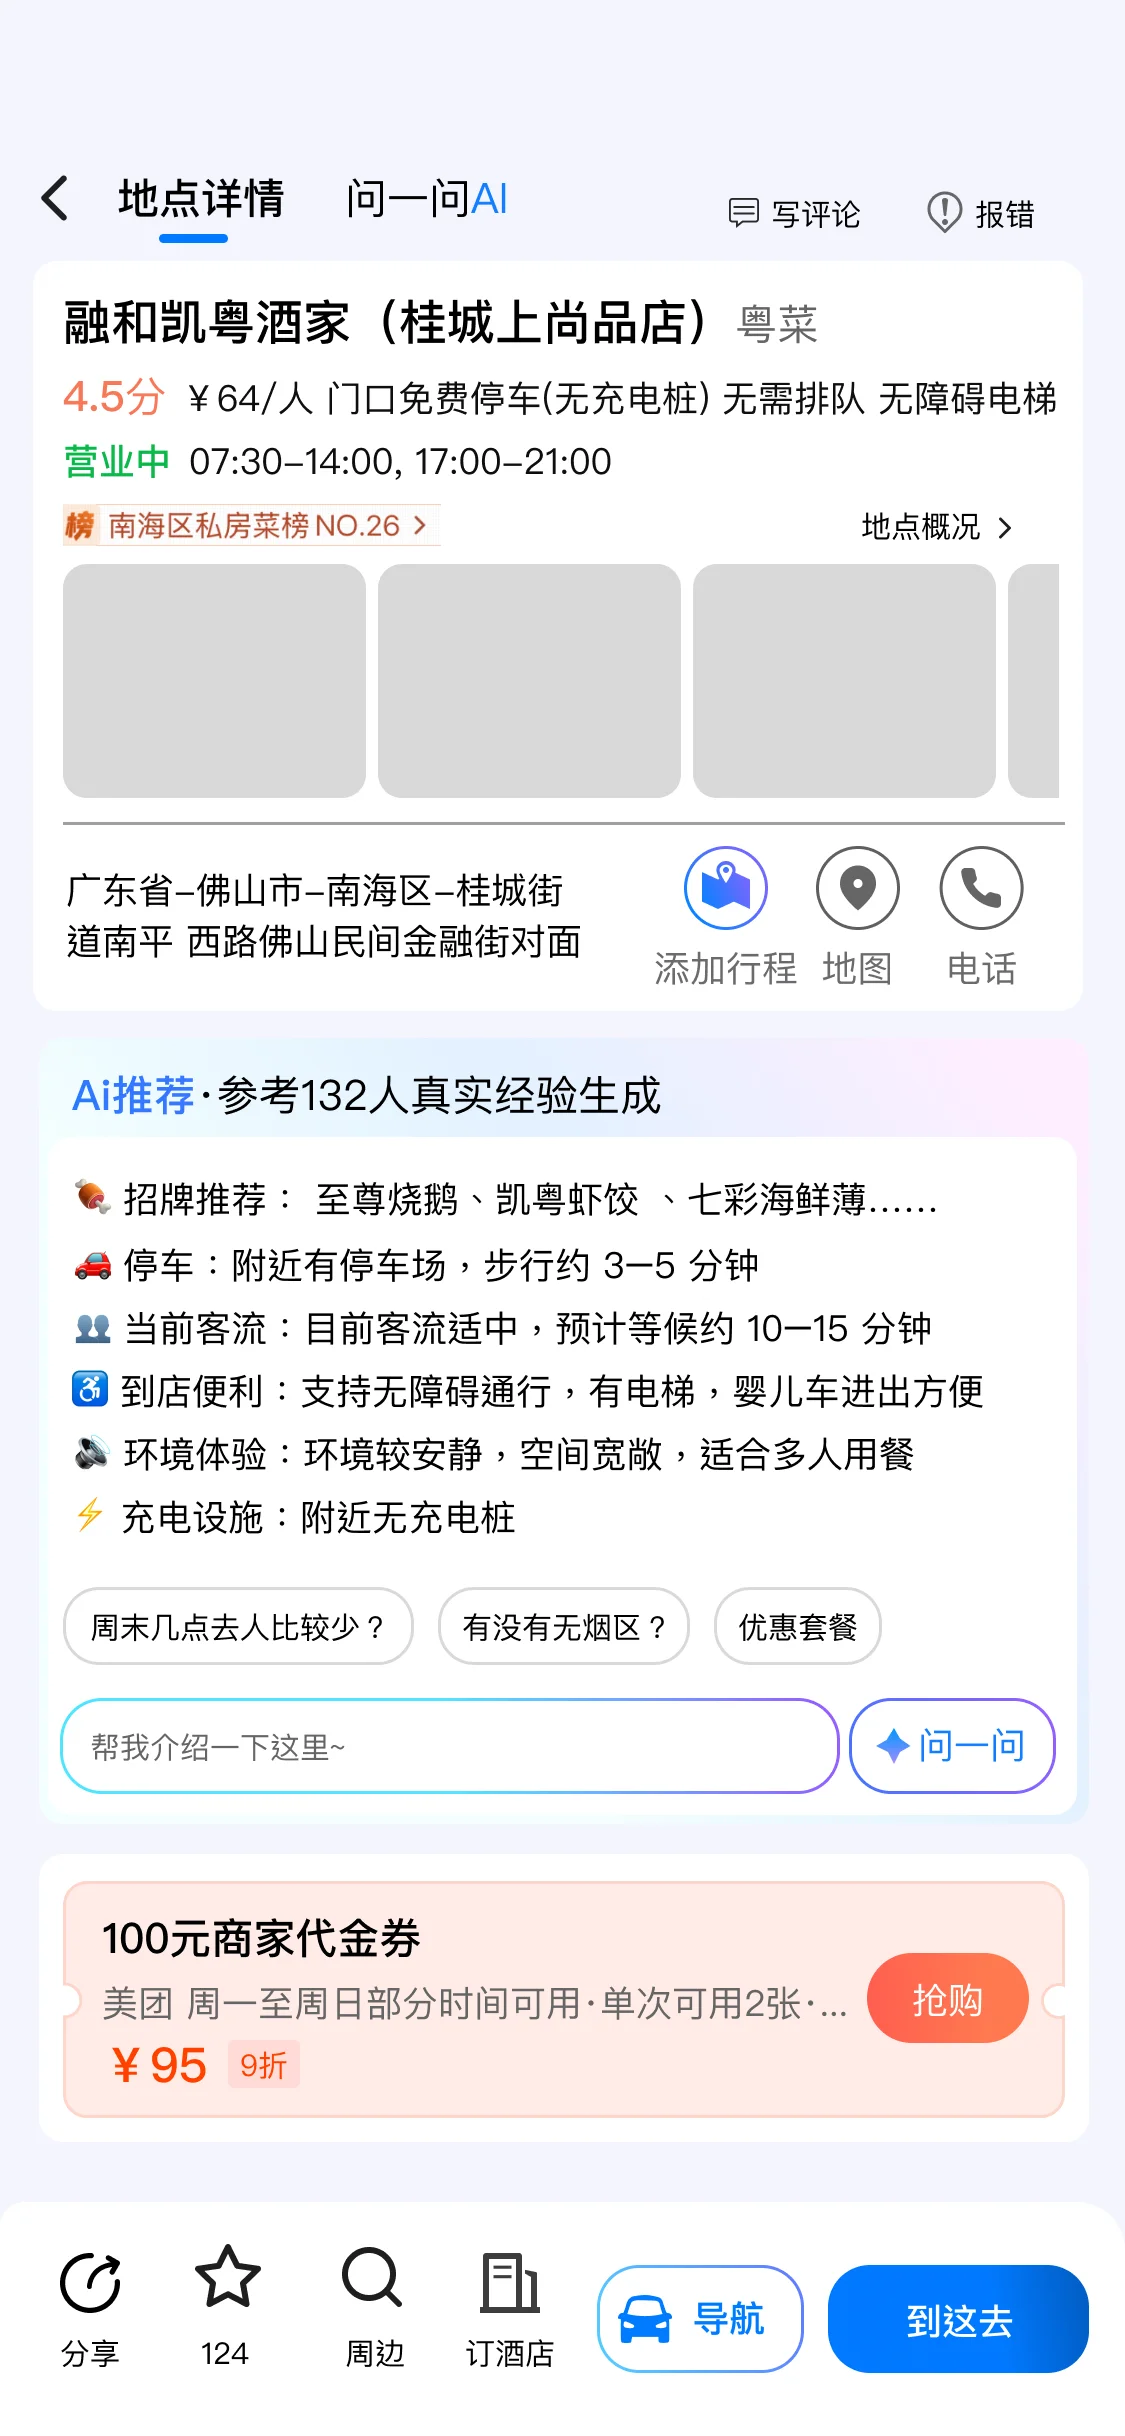
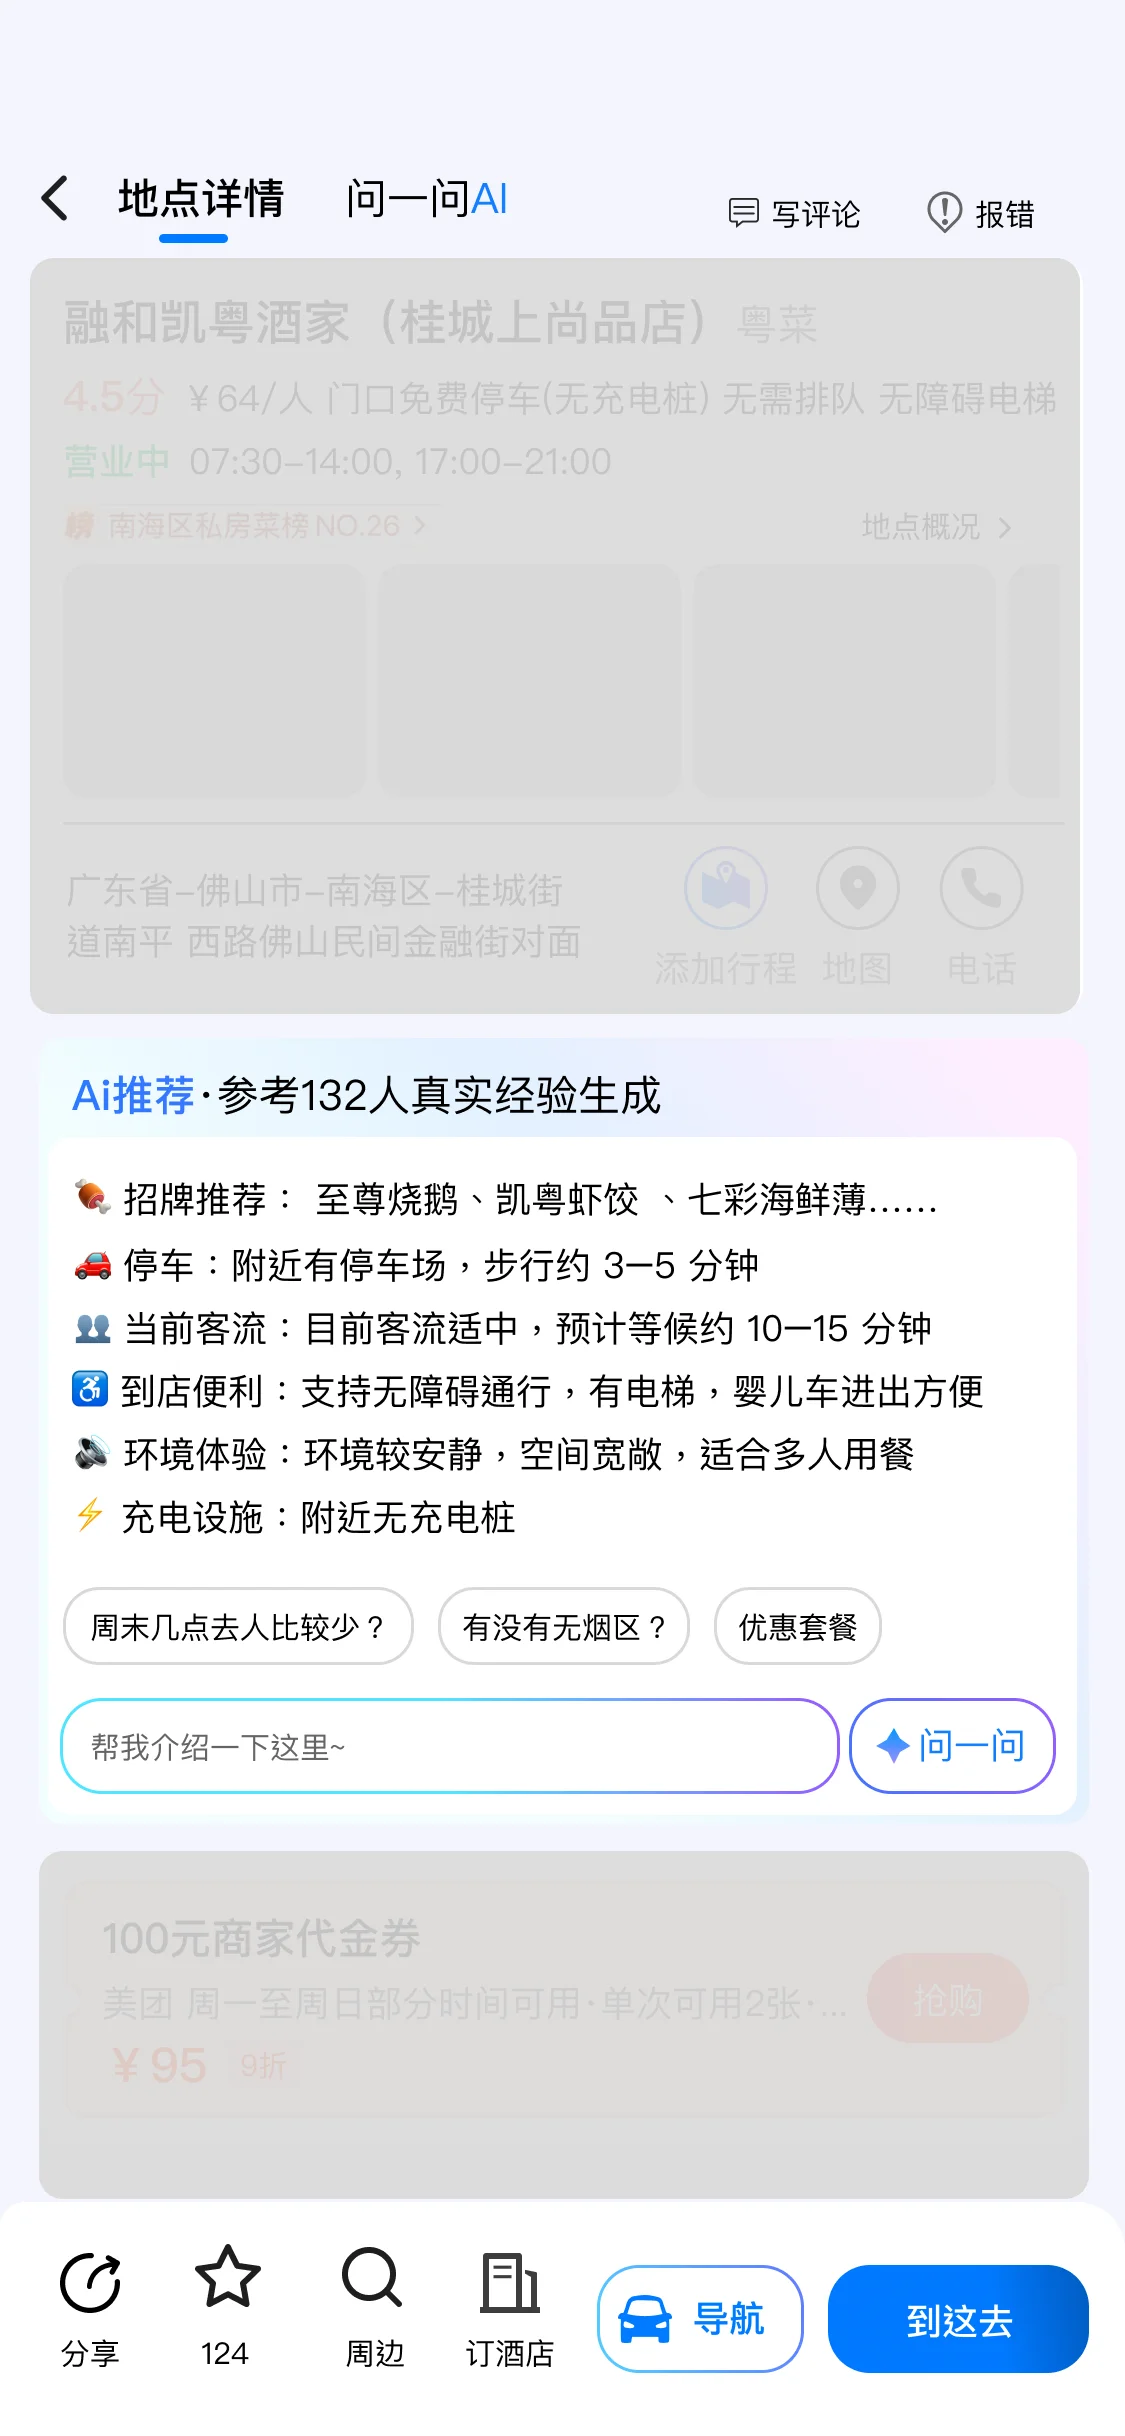
更新百度地图案例方案对比区的三张方案配图
替换方案探索部分的卡片式快问快答/悬浮球/常驻提示条三张示意图为最新设计稿，压缩为 webp 并更新版本号强制刷新缓存。

Claude-Session: https://claude.ai/code/session_018LdX2jWvomDq8DNf5oPoet

diff --git a/projects/baidu-map.html b/projects/baidu-map.html
@@ -308,7 +308,7 @@
           <span class="bm-option-tag">卡片式快问快答</span>
         </div>
         <div class="bm-option-shot">
-          <img src="../assets/baidu-map/variant-card.webp?v=3" alt="方案一：卡片式快问快答">
+          <img src="../assets/baidu-map/variant-card.webp?v=4" alt="方案一：卡片式快问快答">
         </div>
         <div class="bm-option-list">
           <div class="row pos"><span class="m">+</span><span>信息立即可见</span></div>
@@ -323,7 +323,7 @@
           <span class="bm-option-tag">悬浮球</span>
         </div>
         <div class="bm-option-shot">
-          <img src="../assets/baidu-map/variant-floating.webp?v=2" alt="方案二：悬浮球">
+          <img src="../assets/baidu-map/variant-floating.webp?v=3" alt="方案二：悬浮球">
         </div>
         <div class="bm-option-list">
           <div class="row pos"><span class="m">+</span><span>保留当前页面上下文</span></div>
@@ -338,7 +338,7 @@
           <span class="bm-option-tag">常驻提示 + 导航栏入口</span>
         </div>
         <div class="bm-option-shot">
-          <img src="../assets/baidu-map/variant-persistent.webp?v=2" alt="方案三：常驻提示条 + 导航栏入口">
+          <img src="../assets/baidu-map/variant-persistent.webp?v=3" alt="方案三：常驻提示条 + 导航栏入口">
         </div>
         <div class="bm-option-list">
           <div class="row pos"><span class="m">+</span><span>AI 可发现性较高</span></div>
